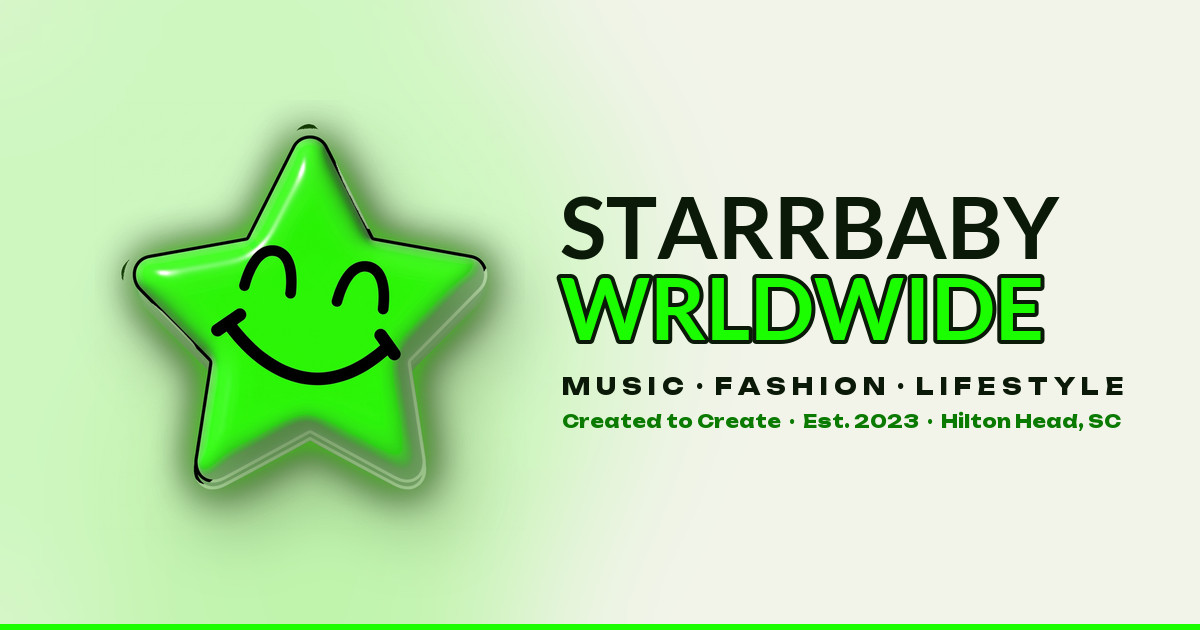
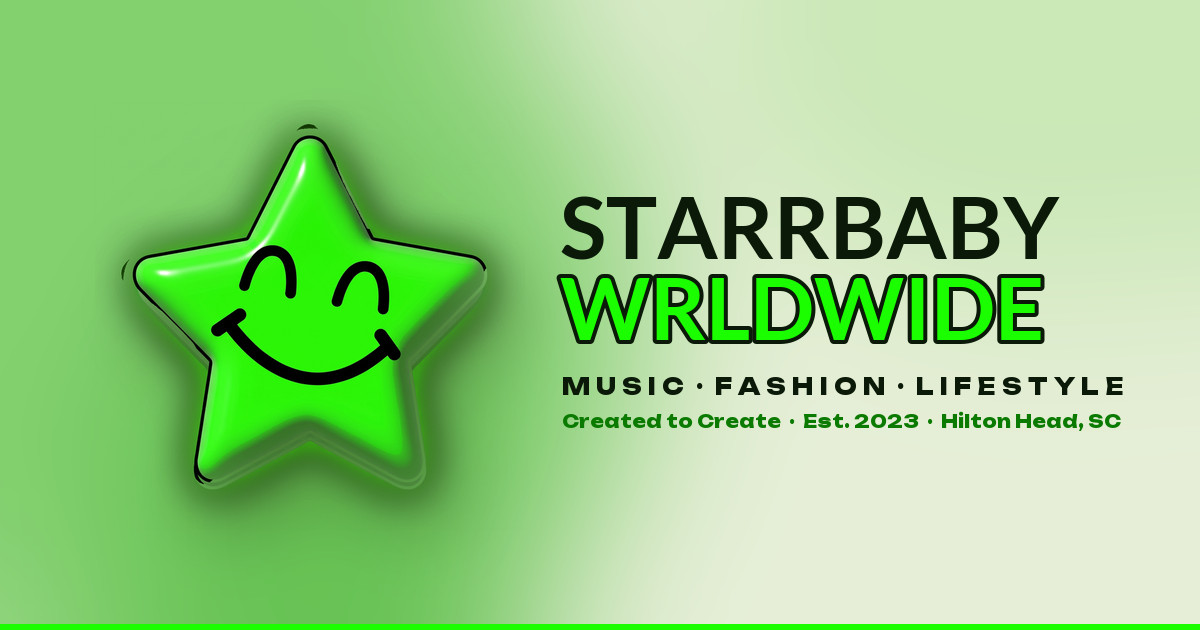
Green cream ground, darker hero mist, referral link in the live section, manifest as json

diff --git a/src/index.css b/src/index.css
@@ -51,9 +51,9 @@
   --font-display: "Drunk Wide", "Unbounded", "Unbounded Fallback", sans-serif;
   --font-sans: "Lato", -apple-system, BlinkMacSystemFont, "Segoe UI", sans-serif;
 
-  --color-background: #F2F4EA;
+  --color-background: #E6EED7;
   --color-foreground: #0B1A08;
-  --color-paper: #F2F4EA;
+  --color-paper: #E6EED7;
   --color-paper-2: #E6F6DC;
   --color-cream: #FBFAF4;
   --color-mint: #CDF8BE;
@@ -76,15 +76,15 @@
 }
 
 :root {
-  --background: #F2F4EA;
+  --background: #E6EED7;
   --foreground: #0B1A08;
   --ns-accent: #1AFE00;
   --neon: #1AFE00;
   --neon-hi: #7DFF6B;
   --neon-lo: #0FB500;
   --neon-deep: #0B7A00;
-  --neu-hi: #FDFCF7;
-  --neu-lo: #E9EBDF;
+  --neu-hi: #F6F8EF;
+  --neu-lo: #DCE6CA;
   --neu-edge: rgba(255, 255, 255, 0.95);
   --neu-light: rgba(255, 255, 255, 0.9);
   --neu-dark: rgba(52, 72, 36, 0.22);
@@ -103,7 +103,7 @@
     width: 100%;
   }
   body {
-    background: #F2F4EA;
+    background: #E6EED7;
     color: #0B1A08;
     font-family: var(--font-sans);
     -webkit-font-smoothing: antialiased;
@@ -269,7 +269,7 @@
 
 /* Inset wells: inputs */
 .neu-in {
-  background: linear-gradient(145deg, #E7E9DE 0%, #F7F8F1 100%);
+  background: linear-gradient(145deg, #DCE5CB 0%, #F1F5E8 100%);
   border: 1px solid rgba(52, 72, 36, 0.06);
   border-top-color: rgba(52, 72, 36, 0.14);
   border-bottom-color: rgba(255, 255, 255, 0.9);
@@ -352,7 +352,7 @@
   letter-spacing: 0.16em;
   text-transform: uppercase;
   color: #0B1A08;
-  background: linear-gradient(145deg, #FFFFFF 0%, #ECEEE3 100%);
+  background: linear-gradient(145deg, #FFFFFF 0%, #E9EFDC 100%);
   border: 1px solid rgba(255, 255, 255, 0.8);
   border-top-color: rgba(255, 255, 255, 1);
   border-bottom-color: rgba(52, 72, 36, 0.16);
@@ -457,7 +457,7 @@
   box-shadow: inset 0 1px 0 rgba(255,255,255,0.7), 6px 8px 18px rgba(52,72,36,0.28), 0 0 26px -6px rgba(26,254,0,0.6);
 }
 .sticker-cream {
-  background: linear-gradient(145deg, #FFFFFF 0%, #ECEEE3 100%);
+  background: linear-gradient(145deg, #FFFFFF 0%, #E9EFDC 100%);
   border-color: rgba(255, 255, 255, 0.9);
   border-bottom-color: rgba(52, 72, 36, 0.16);
   box-shadow: inset 0 1px 0 #fff, 6px 8px 18px rgba(52,72,36,0.24);
@@ -552,13 +552,13 @@
 
 /* Phone tab bar, flush to the bottom edge */
 .tabbar {
-  background: linear-gradient(180deg, #FDFCF7 0%, #ECEEE3 100%);
+  background: linear-gradient(180deg, #F6F8EF 0%, #E9EFDC 100%);
   border-top: 1px solid rgba(255, 255, 255, 1);
   box-shadow: 0 -12px 30px -10px rgba(52, 72, 36, 0.3), inset 0 1px 0 #fff;
 }
 .tab-live {
   background: linear-gradient(180deg, var(--neon-hi) 0%, var(--neon) 50%, var(--neon-lo) 100%);
-  border: 3px solid #F2F4EA;
+  border: 3px solid #E6EED7;
   box-shadow:
     inset 0 1px 0 rgba(255, 255, 255, 0.7),
     inset 0 -3px 0 rgba(0, 0, 0, 0.18),

diff --git a/src/components/News.tsx b/src/components/News.tsx
@@ -1,5 +1,5 @@
-import { ArrowUpRight, CalendarDays, MapPin, Megaphone, Radio } from "lucide-react";
-import { events } from "@/data/site";
+import { ArrowUpRight, CalendarDays, MapPin, Megaphone, Radio, Sparkles } from "lucide-react";
+import { brand, events } from "@/data/site";
 import { Reveal } from "./Reveal";
 import { SectionHeader } from "./SectionHeader";
 
@@ -85,7 +85,7 @@ export function News({ live: liveNow = false }: { live?: boolean }) {
                   </p>
                 </div>
                 {e.url ? (
-                  <div className="relative flex flex-wrap gap-3">
+                  <div className="relative flex flex-wrap items-center gap-3">
                     <a href={e.url} target="_blank" rel="noopener" className="btn3d-neon">
                       {liveNow ? "Watch live now" : (e.cta ?? "Watch")}
                       <ArrowUpRight className="h-4 w-4" aria-hidden="true" />
@@ -96,6 +96,24 @@ export function News({ live: liveNow = false }: { live?: boolean }) {
                   </div>
                 ) : null}
               </article>
+              {/* Scootie's referral: start your own page through his link */}
+              <a
+                href={brand.referralUrl}
+                target="_blank"
+                rel="noopener"
+                className="neu-sm neu-lift mt-4 flex items-center gap-4 px-5 py-4"
+              >
+                <span className="flex h-11 w-11 shrink-0 items-center justify-center rounded-full bg-neon text-ink">
+                  <Sparkles className="h-5 w-5" aria-hidden="true" />
+                </span>
+                <span className="min-w-0 flex-1">
+                  <span className="font-display block text-[0.8rem] font-bold uppercase leading-tight text-ink">
+                    Want your own Rollout Live page?
+                  </span>
+                  <span className="mt-1 block text-sm text-ink/65">Start it through Scootie&rsquo;s link.</span>
+                </span>
+                <ArrowUpRight className="h-5 w-5 shrink-0 text-neon-deep" aria-hidden="true" />
+              </a>
             </Reveal>
           ))}
 

diff --git a/src/components/Hero.tsx b/src/components/Hero.tsx
@@ -6,7 +6,7 @@ import { brand } from "@/data/site";
 // Ramp for the tide, cream edition: cream at the low end, a pale green in
 // the middle, his neon at the peaks. Reads like the cream and green swirl
 // reference, kept inside his hue.
-const TIDE = ["#F4F5EC", "#CDF8BE", "#4CFF36"];
+const TIDE = ["#D9E6C2", "#6FC95A", "#12D200"];
 
 export function Hero() {
   const go = (id: string) => document.getElementById(id)?.scrollIntoView({ behavior: "smooth" });
@@ -27,7 +27,7 @@ export function Hero() {
       {/* The tide */}
       <div
         className="absolute inset-0 -z-20"
-        style={{ background: "radial-gradient(70% 60% at 70% 45%, #CDF8BE 0%, #F2F4EA 70%)" }}
+        style={{ background: "radial-gradient(70% 60% at 70% 45%, #8FD97C 0%, #D9E6C2 70%)" }}
       >
         {tideReady ? (
           <div className="animate-in fade-in absolute inset-0 duration-700">
@@ -40,7 +40,7 @@ export function Hero() {
         className="absolute inset-0 -z-10"
         style={{
           background:
-            "linear-gradient(90deg, rgba(242,244,234,0.9) 0%, rgba(242,244,234,0.6) 42%, rgba(242,244,234,0.12) 100%), linear-gradient(180deg, rgba(242,244,234,0.5) 0%, rgba(242,244,234,0) 30%, rgba(242,244,234,0) 60%, #F2F4EA 100%)",
+            "linear-gradient(90deg, rgba(230,238,215,0.55) 0%, rgba(230,238,215,0.25) 40%, rgba(230,238,215,0) 70%), linear-gradient(180deg, rgba(230,238,215,0.2) 0%, rgba(230,238,215,0) 25%, rgba(230,238,215,0) 65%, #E6EED7 100%)",
         }}
         aria-hidden="true"
       />
@@ -89,7 +89,7 @@ export function Hero() {
             <div
               className="anim-pulse-ring absolute inset-[8%] rounded-full"
               style={{
-                background: "radial-gradient(circle at 35% 25%, #FFFFFF 0%, #F0F2E7 45%, #DDE3D2 100%)",
+                background: "radial-gradient(circle at 35% 25%, #FFFFFF 0%, #EEF4E2 45%, #CFDDB8 100%)",
                 border: "1px solid rgba(255,255,255,0.95)",
                 borderBottomColor: "rgba(52,72,36,0.14)",
               }}

diff --git a/index.html b/index.html
@@ -5,9 +5,9 @@
     <meta name="viewport" content="width=device-width, initial-scale=1, viewport-fit=cover" />
     <title>STARRBABY WRLDWIDE · Scootie Wop</title>
     <meta name="description" content="STARRBABY WRLDWIDE is music, fashion and a lifestyle. Founded in 2023 by Scootie Wop of Hilton Head, South Carolina. Apparel, show merch, news, music and the family list." />
-    <meta name="theme-color" content="#F2F4EA" />
+    <meta name="theme-color" content="#E6EED7" />
     <meta name="color-scheme" content="light" />
-    <link rel="manifest" href="/manifest.webmanifest" />
+    <link rel="manifest" href="/manifest.json" />
     <link rel="icon" type="image/png" href="/favicon.png" />
     <link rel="apple-touch-icon" sizes="180x180" href="/apple-touch-icon.png" />
     <meta name="apple-mobile-web-app-capable" content="yes" />
@@ -36,7 +36,7 @@
     <link rel="preload" as="image" type="image/webp" href="/brand/star-3d.webp" fetchpriority="high" />
     <style>
       /* First paint before the stylesheet lands: cream ground, no flash. */
-      html, body { background: #F2F4EA; margin: 0; }
+      html, body { background: #E6EED7; margin: 0; }
     </style>
     <script>
       // Chrome and Android fire this before React is up. Hold on to it so the

diff --git a/public/sw.js b/public/sw.js
@@ -4,10 +4,10 @@
    handled and the live status poll on Rollout Heaven is never touched. A fetch
    handler is also what makes the site installable as an app. */
 
-const VERSION = "sb-1";
+const VERSION = "sb-2";
 const SHELL = "shell-" + VERSION;
 const MEDIA = "media-" + VERSION;
-const PRECACHE = ["/", "/manifest.webmanifest", "/brand/star-3d.webp", "/fonts/Unbounded-800-latin.woff2", "/fonts/Lato-400-latin.woff2"];
+const PRECACHE = ["/", "/manifest.json", "/brand/star-3d.webp", "/fonts/Unbounded-800-latin.woff2", "/fonts/Lato-400-latin.woff2"];
 
 self.addEventListener("install", (e) => {
   e.waitUntil(

diff --git a/src/components/MobileBar.tsx b/src/components/MobileBar.tsx
@@ -52,7 +52,7 @@ export function MobileBar({ live }: Props) {
             {live ? (
               <span className="absolute right-1 top-1 flex h-3 w-3" aria-hidden="true">
                 <span className="absolute inline-flex h-full w-full animate-ping rounded-full bg-[#ff3b3b] opacity-70" />
-                <span className="relative inline-flex h-3 w-3 rounded-full border-2 border-[#F2F4EA] bg-[#ff3b3b]" />
+                <span className="relative inline-flex h-3 w-3 rounded-full border-2 border-[#E6EED7] bg-[#ff3b3b]" />
               </span>
             ) : null}
           </a>

diff --git a/src/data/site.ts b/src/data/site.ts
@@ -17,6 +17,9 @@ export const brand = {
   pillars: ["Music", "Fashion", "Lifestyle"],
   shopUrl: "https://starrbaby.co",
   liveUrl: "https://rolloutheaven.com/starrbaby",
+  // Scootie's creator referral: anyone who starts their own Rollout Live page
+  // through this link is credited to him.
+  referralUrl: "https://rolloutheaven.com/live?ref=scootiewop",
   // Public, CORS open live status on Rollout Heaven. The site polls it every
   // 30s and shows the live strip when it says live. VITE_LIVE_STATUS_URL overrides.
   liveStatusUrl:

diff --git a/src/components/Artists.tsx b/src/components/Artists.tsx
@@ -37,7 +37,7 @@ export function Artists() {
                 />
                 <div
                   className="absolute inset-0 sm:hidden"
-                  style={{ background: "linear-gradient(180deg, rgba(237,236,227,0) 55%, rgba(237,236,227,1) 100%)" }}
+                  style={{ background: "linear-gradient(180deg, rgba(230,238,215,0) 55%, rgba(230,238,215,1) 100%)" }}
                   aria-hidden="true"
                 />
                 <span className="sticker absolute left-4 top-4 rotate-[-5deg]">Founder</span>
